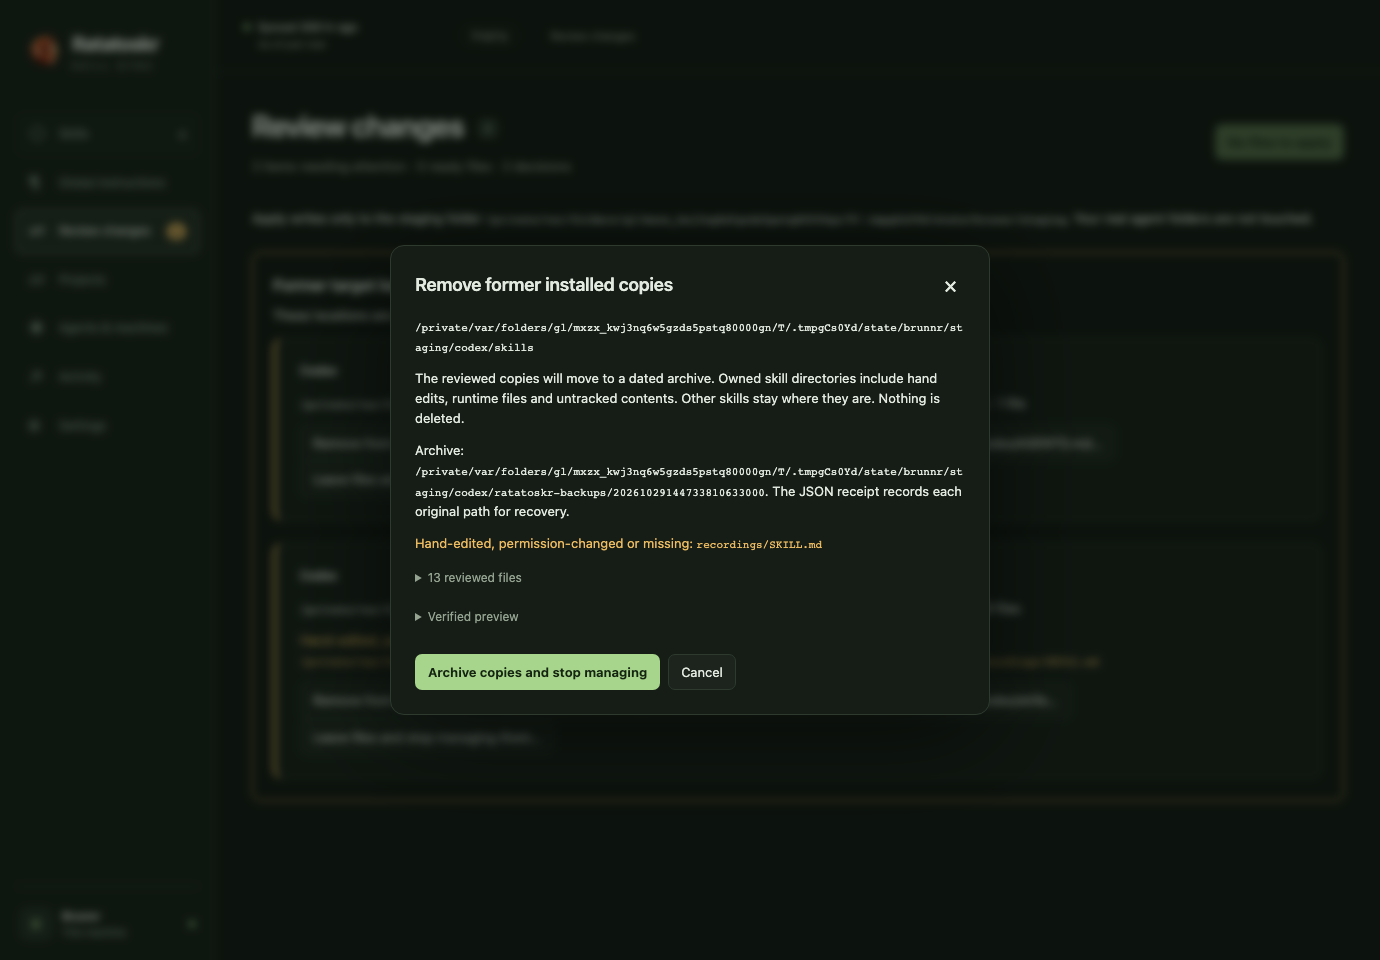
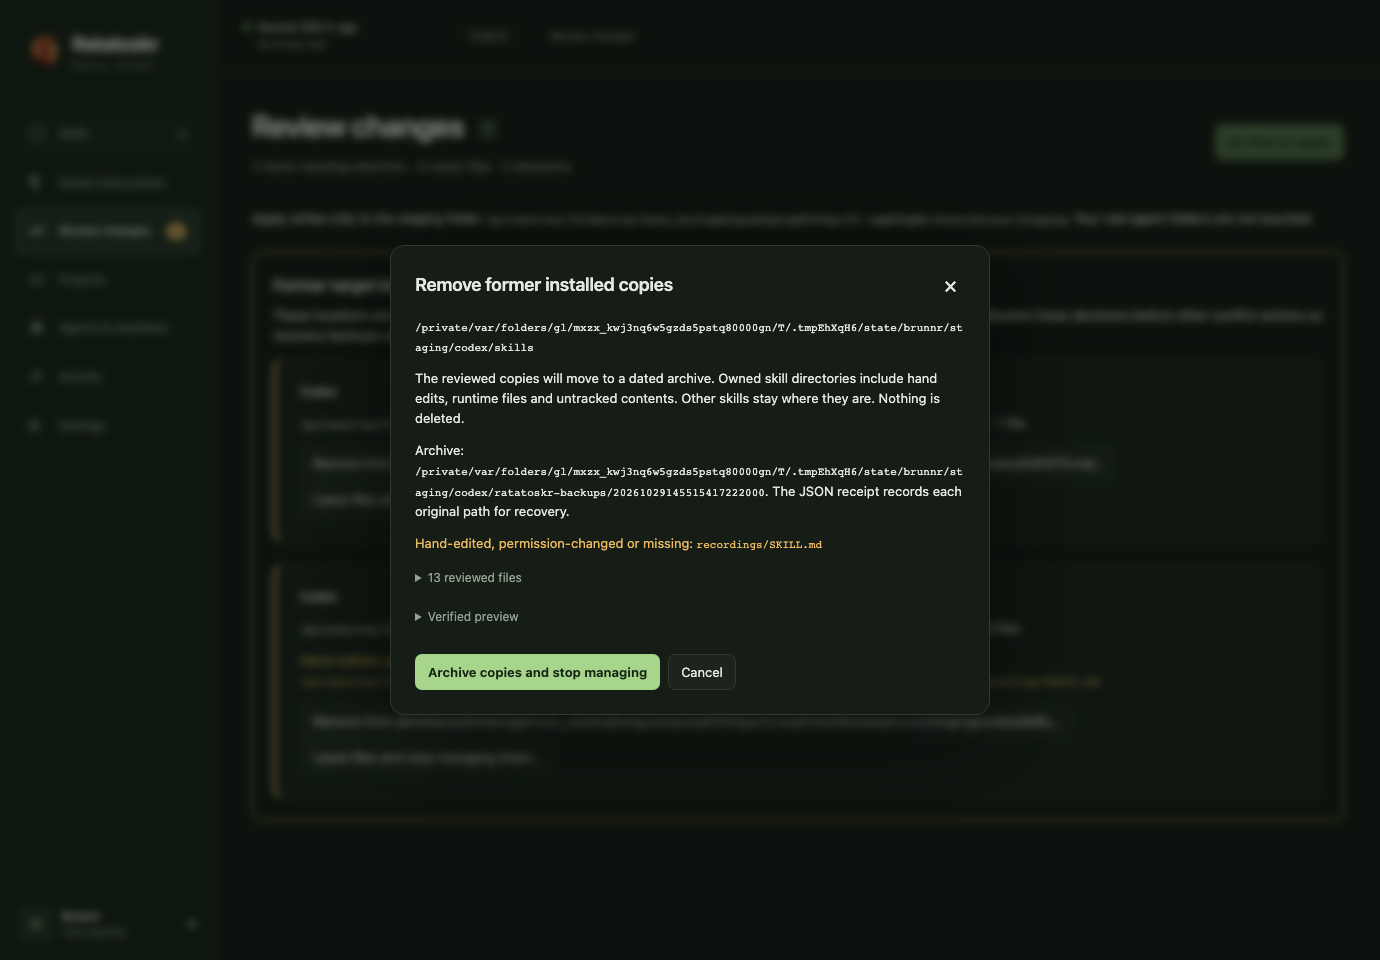
Keep conflict backups within current target boundaries

diff --git a/desktop/src/views/Review.svelte b/desktop/src/views/Review.svelte
@@ -26,6 +26,7 @@
     ondirty: (v: boolean) => void;
   } = $props();
   const summary = $derived(reviewSummary(workspace));
+  const hasStaleTargets = $derived(workspace.plan.stale_targets.length > 0);
   let sourceConflict = $state<Conflict | null>(null);
   let resolution = $state<Resolution | null>(null);
   let busy = $state(false);
@@ -163,7 +164,7 @@
         workspace.plan.conflicts.length > 0 ||
         !workspace.plan.changes.length ||
         workspace.legacy.length > 0 ||
-        workspace.plan.stale_targets.length > 0}
+        hasStaleTargets}
       onclick={apply}
       aria-describedby="apply-destination">{summary.applyAction}</button
     >
@@ -250,7 +251,9 @@
       <h2>Former target locations</h2>
       <p>
         These locations are outside your current targets. Apply and background
-        sync wait for your decision for each location.
+        sync wait for your decision for each location. Resolve these decisions
+        before other conflict actions so recovery backups stay within current
+        targets.
       </p>
       {#each workspace.plan.stale_targets as item}<article
           class="conflict-card"
@@ -311,19 +314,23 @@
             <div class="conflict-actions">
               <button
                 class="primary"
-                disabled={!!conflict.copy_back_blocked || busy}
+                disabled={!!conflict.copy_back_blocked ||
+                  busy ||
+                  hasStaleTargets}
                 title={conflict.copy_back_blocked ??
                   "Preserve the installed edit in your source"}
                 onclick={() => choose(conflict, "copy-back")}
                 >Keep edit → update source</button
               ><button
-                disabled={busy}
+                disabled={busy || hasStaleTargets}
                 onclick={() => choose(conflict, "reinstall")}
                 >Restore from source</button
               ><button
-                disabled={!conflict.source}
+                disabled={!conflict.source || hasStaleTargets}
                 onclick={() => (sourceConflict = conflict)}>Edit source…</button
-              ><button disabled={busy} onclick={() => choose(conflict, "adopt")}
+              ><button
+                disabled={busy || hasStaleTargets}
+                onclick={() => choose(conflict, "adopt")}
                 >Take over as-is</button
               >
             </div>

diff --git a/desktop/src/views/Review.test.ts b/desktop/src/views/Review.test.ts
@@ -193,6 +193,12 @@ test.each(["forget", "remove"] as const)(
       screen.getByRole("button", { name: summary.applyAction }),
     ).toBeDisabled();
     expect(calls).not.toHaveBeenCalled();
+    expect(
+      screen.getByRole("button", { name: "Restore from source" }),
+    ).toBeDisabled();
+    expect(
+      screen.getByRole("button", { name: "Take over as-is" }),
+    ).toBeDisabled();
     await fireEvent.click(
       within(section).getByRole("button", {
         name:

diff --git a/crates/ratatoskr-core/tests/workflows.rs b/crates/ratatoskr-core/tests/workflows.rs
@@ -3760,3 +3760,90 @@ fn stale_symlinks_remain_hard_errors_even_for_forget() {
         .is_err()
     );
 }
+
+#[test]
+fn stale_decisions_precede_other_conflict_backups_so_restore_stays_usable() {
+    let f = Fixture::with_targets("live", &["alpha", "beta"]);
+    apply(&f.settings).unwrap();
+    let active = f.root.join("alpha/skills/review-code/SKILL.md");
+    fs::write(&active, "Current target's hand edit").unwrap();
+    f.targets("live", &["alpha"]);
+    let error = format!(
+        "{:#}",
+        ratatoskr_core::preview_resolution(
+            &f.settings,
+            &active,
+            ratatoskr_core::ConflictAction::Reinstall
+        )
+        .err()
+        .unwrap()
+    );
+    assert!(
+        error.contains("Resolve pending stale-target decisions"),
+        "{error}"
+    );
+    assert!(ratatoskr_core::adopt(&f.settings).is_err());
+    assert!(!f.settings.state_dir.join("test/backups").exists());
+    assert_eq!(fs::read(&active).unwrap(), b"Current target's hand edit");
+    f.resolve_stale(ratatoskr_core::StaleAction::Forget);
+    let preview = ratatoskr_core::preview_resolution(
+        &f.settings,
+        &active,
+        ratatoskr_core::ConflictAction::Reinstall,
+    )
+    .unwrap();
+    let backup =
+        ratatoskr_core::resolve_conflict(&f.settings, &serde_json::to_string(&preview).unwrap())
+            .unwrap();
+    ratatoskr_core::restore_backup(&f.settings, &backup).unwrap();
+    assert_eq!(fs::read(&active).unwrap(), b"Current target's hand edit");
+}
+
+#[test]
+fn stale_remove_leaves_contents_of_overlapping_current_targets_in_place() {
+    let f = Fixture::with_targets("live", &["alpha"]);
+    apply(&f.settings).unwrap();
+    let old_file = f.root.join("alpha/skills/review-code/SKILL.md");
+    let definitions = fs::read_to_string(f.settings.source.join("harnesses.toml")).unwrap();
+    f.write(
+        "harnesses.toml",
+        &definitions.replace(
+            "skills_dir='skills'",
+            "skills_dir='skills/review-code/current'",
+        ),
+    );
+    let current_file = f
+        .root
+        .join("alpha/skills/review-code/current/review-code/SKILL.md");
+    fs::create_dir_all(current_file.parent().unwrap()).unwrap();
+    fs::write(&current_file, "New target's existing copy").unwrap();
+    let preview = ratatoskr_core::preview_stale_target(
+        &f.settings,
+        &f.root.join("alpha/skills"),
+        ratatoskr_core::StaleAction::Remove,
+    )
+    .unwrap();
+    let value = serde_json::to_value(&preview).unwrap();
+    assert!(
+        value["location"]["archive_roots"]
+            .as_array()
+            .unwrap()
+            .is_empty()
+    );
+    let archive = ratatoskr_core::resolve_stale_target(
+        &f.settings,
+        &serde_json::to_string(&preview).unwrap(),
+    )
+    .unwrap()
+    .unwrap();
+    assert!(!old_file.exists());
+    assert_eq!(
+        fs::read(&current_file).unwrap(),
+        b"New target's existing copy"
+    );
+    assert_eq!(
+        fs::read(archive.join("entries/0")).unwrap(),
+        fs::read(f.settings.source.join("skills/review-code/SKILL.md")).unwrap()
+    );
+    assert!(plan(&f.settings).unwrap().stale_targets.is_empty());
+}

diff --git a/crates/ratatoskr-core/src/engine/conflicts.rs b/crates/ratatoskr-core/src/engine/conflicts.rs
@@ -123,6 +123,10 @@ fn resolution_preview(
     owned: &Manifest,
 ) -> Result<ResolutionPreview> {
     let check = preflight(settings, desired, owned)?;
+    ensure!(
+        check.stale_targets.is_empty(),
+        "Resolve pending stale-target decisions with `ratatoskr stale-target list` before resolving other conflicts; workspace backups must stay within current targets"
+    );
     let conflict = check
         .conflict_details
         .into_iter()

diff --git a/docs/usage.md b/docs/usage.md
@@ -94,7 +94,7 @@ For existing unmanaged imports, the legacy bulk `ratatoskr adopt` backs up exist
 
 ## Former target locations
 
-Removing a harness from a machine profile, switching between `staging` and `live`, or changing a target's root, skills directory or global instructions path can leave previously owned files outside the new targets. `plan` succeeds and lists these as pending decisions in `stale_targets` and `conflicts`; `status` returns 1 for pending work. Apply, reviewed Apply and background sync refuse to write until every location is decided. A live → staging switch therefore preserves live files until you explicitly choose what to do with them.
+Removing a harness from a machine profile, switching between `staging` and `live`, or changing a target's root, skills directory or global instructions path can leave previously owned files outside the new targets. `plan` succeeds and lists these as pending decisions in `stale_targets` and `conflicts`; `status` returns 1 for pending work. Apply, reviewed Apply and background sync refuse to write until every location is decided. A live → staging switch therefore preserves live files until you explicitly choose what to do with them. Adoption and ordinary conflict actions also wait for these decisions, so their workspace backups remain restorable within current targets.
 
 Each former skills directory is one decision, and each former global instructions file is another. A harness label is included only when its current definition identifies the old location unambiguously. Review the path even when a label is available. Changing a skill's `[target]` selection remains an ordinary removal inside an active target.
 
